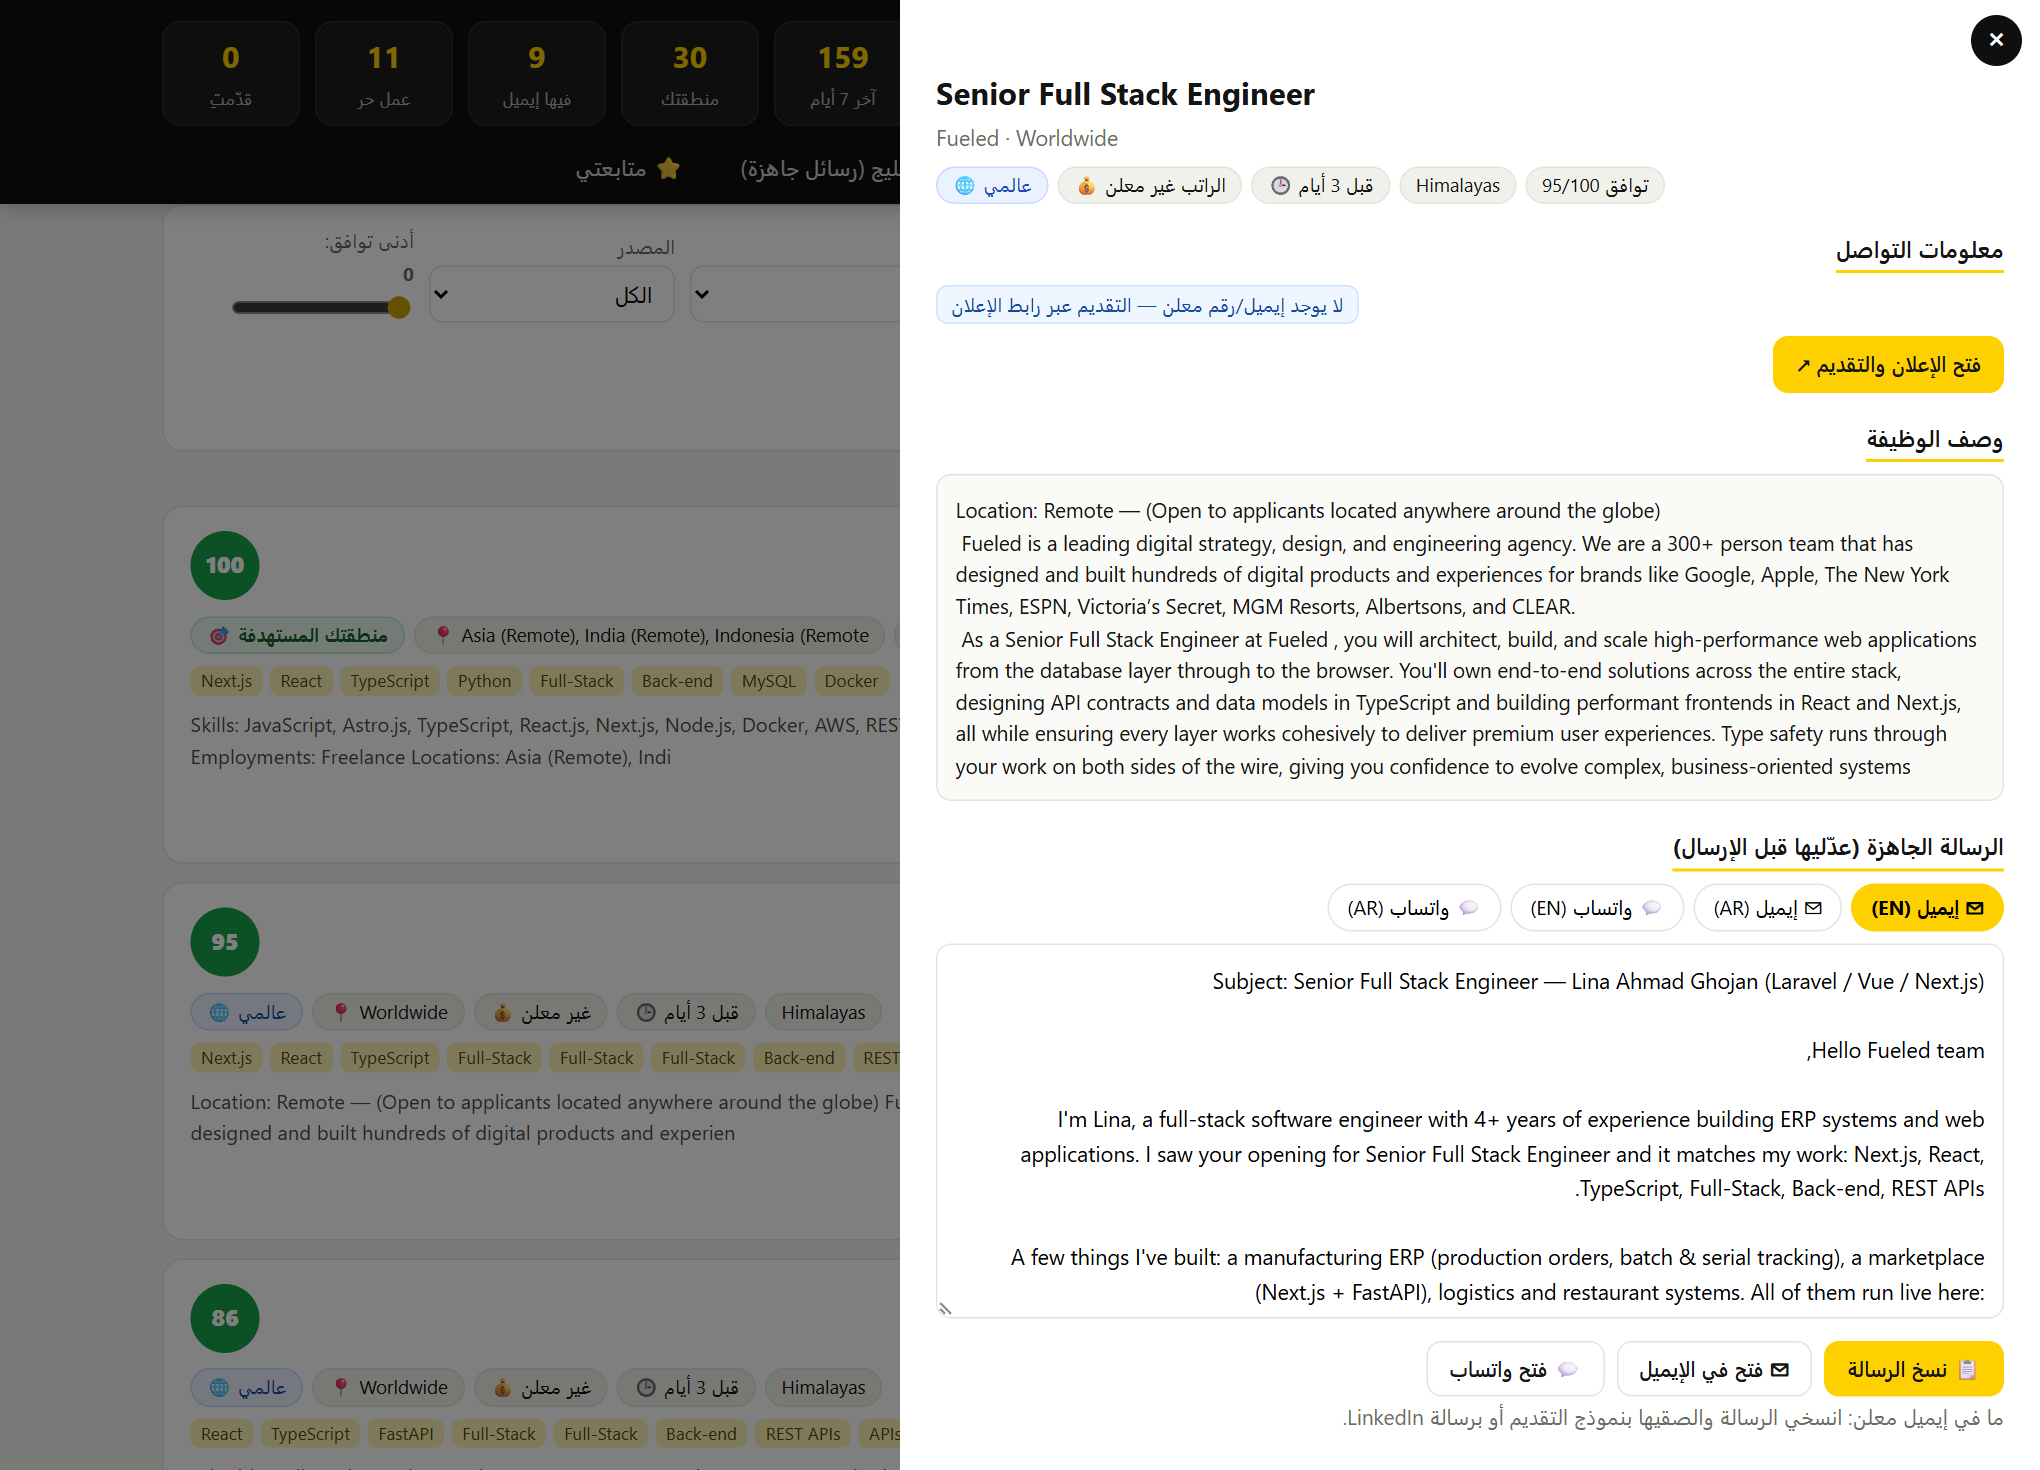
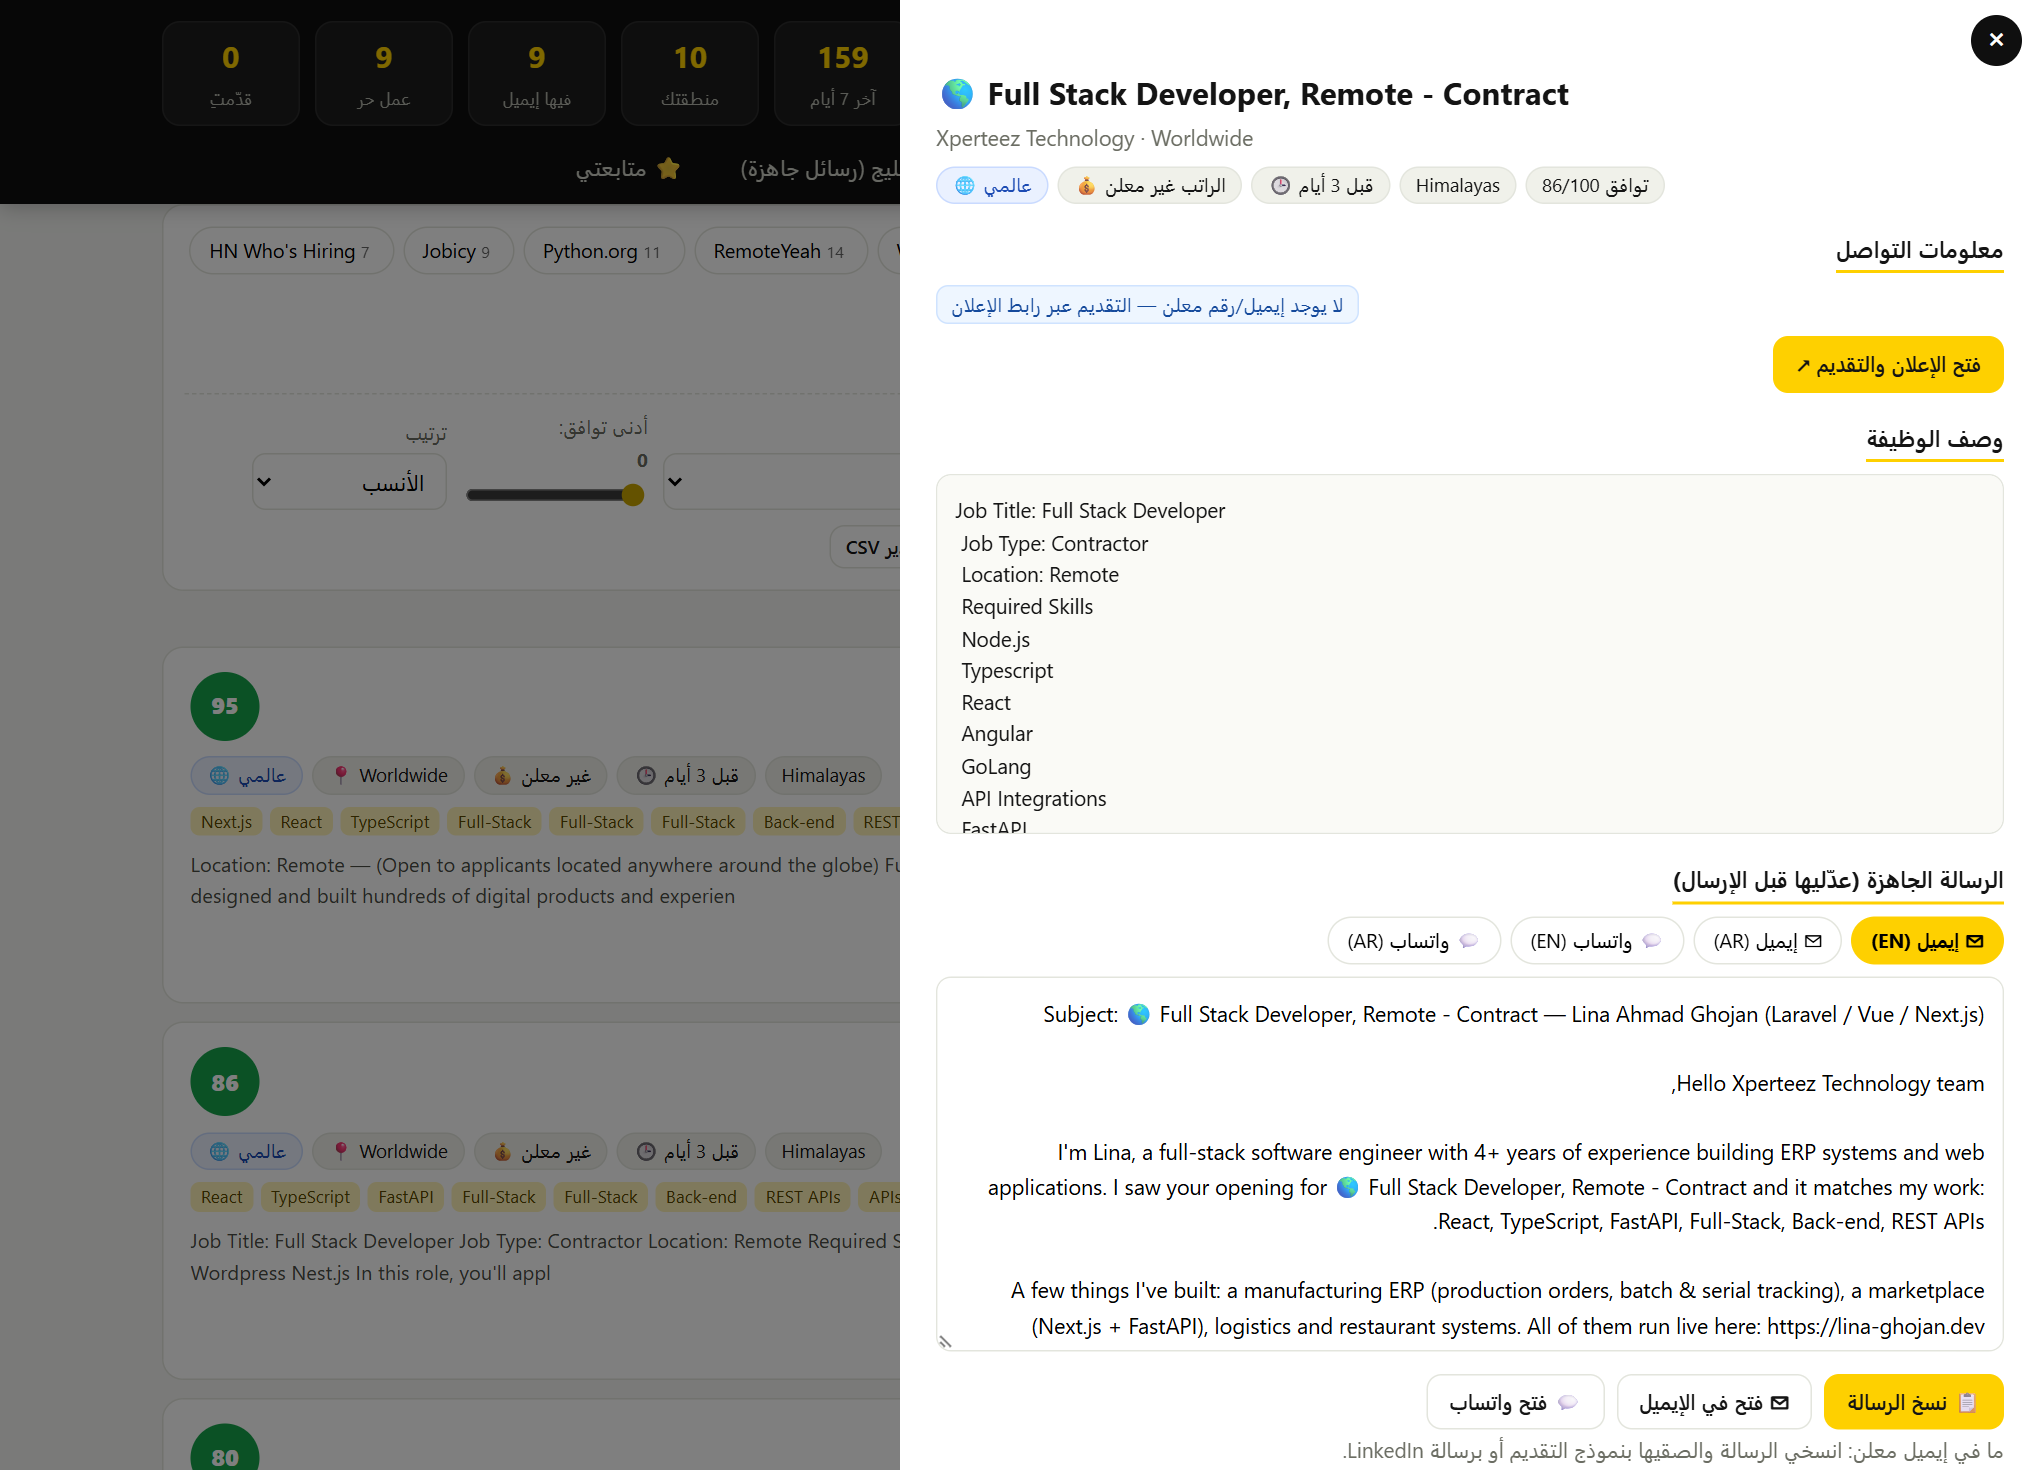
Add site filter bar: pick which sources to see, filter job boards by type, mark link-only sites

diff --git a/site/app.js b/site/app.js
@@ -55,15 +55,17 @@ function card(j) {
 }
 
 /* ───────── filters ───────── */
-const F = { jobs: { q: "", days: 7, region: "", source: "", min: 0, sal: false, con: false, hide: true, nolocal: true, sort: "score", limit: 120 }, free: { q: "", days: 30, region: "", source: "", min: 0, sal: false, con: false, hide: true, nolocal: true, sort: "new", limit: 120 } };
+function loadSrc(k) { try { return new Set(JSON.parse(localStorage.getItem("jobhunt-src-" + k)) || []); } catch { return new Set(); } }
+const saveSrc = (k, set) => { try { localStorage.setItem("jobhunt-src-" + k, JSON.stringify([...set])); } catch { /* ignore */ } };
+const F = { jobs: { q: "", days: 7, region: "", src: loadSrc("jobs"), min: 0, sal: false, con: false, hide: true, nolocal: true, sort: "score", limit: 120 }, free: { q: "", days: 30, region: "", src: loadSrc("free"), min: 0, sal: false, con: false, hide: true, nolocal: true, sort: "new", limit: 120 } };
 function filterUI(box, key, pool) {
   const f = F[key];
-  const sources = [...new Set(pool.map((j) => j.source))].sort();
+  const sources = Object.entries(pool.reduce((m, j) => ((m[j.source] = (m[j.source] || 0) + 1), m), {})).sort((a, b) => b[1] - a[1]);
   box.innerHTML = `
+    <div class="srcbar" id="${key}bar"><b>المواقع:</b><button class="chip ${f.src.size ? "" : "on"}" data-src="*">الكل <small>${pool.length}</small></button>${sources.map(([s, n]) => `<button class="chip ${f.src.has(s) ? "on" : ""}" data-src="${esc(s)}">${esc(s)} <small>${n}</small></button>`).join("")}${linkOnly(key)}</div>
     <label>بحث<input type="search" id="${key}q" placeholder="laravel, dubai, react…" value="${esc(f.q)}"></label>
     <label>تاريخ النشر<div class="chips">${[1, 3, 7, 14, 30].map((d) => `<button class="chip ${f.days === d ? "on" : ""}" data-days="${d}">${d === 1 ? "24 ساعة" : d + " أيام"}</button>`).join("")}</div></label>
     <label>المنطقة<select id="${key}r"><option value="">الكل</option>${Object.entries(REG).filter(([k]) => pool.some((j) => j.region === k)).map(([k, v]) => `<option value="${k}" ${f.region === k ? "selected" : ""}>${v[0]}</option>`).join("")}</select></label>
-    <label>المصدر<select id="${key}s"><option value="">الكل</option>${sources.map((s) => `<option ${f.source === s ? "selected" : ""}>${esc(s)}</option>`).join("")}</select></label>
     <label>أدنى توافق: <b id="${key}mv">${f.min}</b><input type="range" id="${key}m" min="0" max="90" step="5" value="${f.min}"></label>
     <label>ترتيب<select id="${key}o"><option value="score" ${f.sort === "score" ? "selected" : ""}>الأنسب</option><option value="new" ${f.sort === "new" ? "selected" : ""}>الأحدث</option><option value="sal" ${f.sort === "sal" ? "selected" : ""}>فيها راتب أولاً</option></select></label>
     <label class="chk"><input type="checkbox" id="${key}sal" ${f.sal ? "checked" : ""}> فيها راتب</label>
@@ -74,7 +76,14 @@ function filterUI(box, key, pool) {
   const bind = (id, fn) => { const e = $("#" + key + id, box); if (e) e.oninput = e.onchange = fn; };
   bind("q", (e) => { f.q = e.target.value; f.limit = 120; draw(key, pool); });
   bind("r", (e) => { f.region = e.target.value; draw(key, pool); });
-  bind("s", (e) => { f.source = e.target.value; draw(key, pool); });
+  $("#" + key + "bar", box).onclick = (e) => {
+    const b = e.target.closest("[data-src],[data-goboards]"); if (!b) return;
+    if (b.dataset.goboards) { document.querySelector("[data-tab=boards]").click(); return; }
+    const v = b.dataset.src; if (v === "*") f.src.clear(); else if (f.src.has(v)) f.src.delete(v); else f.src.add(v);
+    saveSrc(key, f.src);
+    $("#" + key + "bar", box).querySelectorAll("[data-src]").forEach((x) => x.classList.toggle("on", x.dataset.src === "*" ? !f.src.size : f.src.has(x.dataset.src)));
+    f.limit = 120; draw(key, pool);
+  };
   bind("m", (e) => { f.min = +e.target.value; $("#" + key + "mv", box).textContent = f.min; draw(key, pool); });
   bind("o", (e) => { f.sort = e.target.value; draw(key, pool); });
   bind("sal", (e) => { f.sal = e.target.checked; draw(key, pool); });
@@ -84,9 +93,10 @@ function filterUI(box, key, pool) {
   box.querySelectorAll("[data-days]").forEach((b) => (b.onclick = () => { f.days = +b.dataset.days; box.querySelectorAll("[data-days]").forEach((x) => x.classList.toggle("on", x === b)); draw(key, pool); }));
   const csv = $("#csv", box); if (csv) csv.onclick = () => exportCsv(select(key, pool));
 }
+function linkOnly(key) { return key === "jobs" ? `<span class="lo">LinkedIn · Indeed · Glassdoor · Bayt · GulfTalent · Jooble = روابط بحث فقط <button class="chip" data-goboards="1">افتحيهم ↗</button></span>` : ""; }
 function select(key, pool) {
   const f = F[key], q = f.q.toLowerCase().trim();
-  let r = pool.filter((j) => ageDays(j) <= f.days && j.score >= f.min && (!f.region || j.region === f.region) && (!f.source || j.source === f.source)
+  let r = pool.filter((j) => ageDays(j) <= f.days && j.score >= f.min && (!f.region || j.region === f.region) && (!f.src.size || f.src.has(j.source))
     && (!f.sal || j.salary) && (!f.con || j.contacts.emails.length || j.contacts.whatsapp.length || j.contacts.phones.length)
     && (!f.nolocal || j.region !== "local") && (!f.hide || !["applied", "skip"].includes(store.status[j.id])) && (!q || `${j.title} ${j.company} ${j.location} ${j.tags.join(" ")} ${j.description}`.toLowerCase().includes(q)));
   const by = { score: (a, b) => b.score - a.score || (b.posted > a.posted ? 1 : -1), new: (a, b) => (b.posted > a.posted ? 1 : -1), sal: (a, b) => !!b.salary - !!a.salary || b.score - a.score };
@@ -153,17 +163,20 @@ function boardsTab() {
   const ck = (id, arr, key = "label") => `<select id="${id}">${arr.map((x, i) => `<option value="${i}">${esc(x[key] || x.ar)}</option>`).join("")}</select>`;
   el.innerHTML = `
     <div class="notice">مواقع <b>LinkedIn · Indeed · Glassdoor · Jooble · Bayt · GulfTalent</b> تمنع الجمع الآلي، فبنبني لك رابط البحث الجاهز (ريموت + آخر أسبوع) وبيفتح النتائج مباشرة. فعّلي كمان <b>Job Alerts</b> على كل موقع ليوصلك الجديد على الإيميل يومياً.</div>
-    <div class="filters"><label>الوظيفة${ck("bk", B.keywords)}</label><label>الدولة${ck("bc", B.countries, "ar")}</label></div>
+    <div class="filters"><div class="srcbar" id="bg"><b>نوع الموقع:</b>${B.groups.map(([k, l], i) => `<button class="chip ${i ? "" : "on"}" data-g="${k}">${esc(l)}</button>`).join("")}</div><label>الوظيفة${ck("bk", B.keywords)}</label><label>الدولة${ck("bc", B.countries, "ar")}</label><label>ابحثي عن موقع<input type="search" id="bs" placeholder="linkedin, bayt, upwork…"></label></div>
     <h3>🔎 مواقع التوظيف</h3><div id="bt"></div>
     <h3 style="margin-top:26px">🧑💻 مواقع العمل الحر</h3><div id="bf"></div>
     <h3 style="margin-top:26px">📣 منشورات "مطلوب مبرمج" على السوشيال (الأحدث)</h3><div id="bp"></div>`;
   const paint = () => {
     const k = B.keywords[+$("#bk").value], c = B.countries[+$("#bc").value];
-    $("#bt").innerHTML = `<table class="bt"><tr><th>الموقع</th><th>ملاحظة</th><th>رابط البحث: ${esc(k.label)} — ${esc(c.ar)}</th></tr>${B.boards.map((b) => `<tr><td><b>${esc(b.name)}</b></td><td>${esc(b.note)}</td><td><a href="${esc(b.url(c, k.label))}" target="_blank" rel="noreferrer">افتحي النتائج ↗</a></td></tr>`).join("")}</table>`;
-    $("#bf").innerHTML = `<table class="bt"><tr><th>الموقع</th><th>ملاحظة</th><th>بحث: ${esc(k.label)}</th></tr>${B.freelanceBoards.map((b) => `<tr><td><b>${esc(b.name)}</b></td><td>${esc(b.note)}</td><td><a href="${esc(b.url(k.label))}" target="_blank" rel="noreferrer">افتحي ↗</a></td></tr>`).join("")}</table>`;
+    const g = $("#bg .on").dataset.g, nm = $("#bs").value.toLowerCase().trim(), show = (b) => (g === "all" || b.group === g) && (!nm || b.name.toLowerCase().includes(nm));
+    $("#bt").innerHTML = `<table class="bt"><tr><th>الموقع</th><th>ملاحظة</th><th>رابط البحث: ${esc(k.label)} — ${esc(c.ar)}</th></tr>${B.boards.filter(show).map((b) => `<tr><td><b>${esc(b.name)}</b>${b.linkOnly ? ' <span class="b o" title="الموقع بيمنع الجمع الآلي — بيفتح البحث فقط">رابط بحث فقط</span>' : ""}</td><td>${esc(b.note)}</td><td><a href="${esc(b.url(c, k.label))}" target="_blank" rel="noreferrer">افتحي النتائج ↗</a></td></tr>`).join("")}</table>`;
+    $("#bf").innerHTML = `<table class="bt"><tr><th>الموقع</th><th>ملاحظة</th><th>بحث: ${esc(k.label)}</th></tr>${B.freelanceBoards.filter(show).map((b) => `<tr><td><b>${esc(b.name)}</b></td><td>${esc(b.note)}</td><td><a href="${esc(b.url(k.label))}" target="_blank" rel="noreferrer">افتحي ↗</a></td></tr>`).join("")}</table>`;
     $("#bp").innerHTML = `<table class="bt"><tr><th>ماذا تبحثين</th>${B.postSearches.map((s) => `<th>${esc(s.name)}</th>`).join("")}</tr>${B.postQueries.map((q) => `<tr><td>${esc(q.ar)}</td>${B.postSearches.map((s) => `<td><a href="${esc(s.url(q.q))}" target="_blank" rel="noreferrer">بحث ↗</a></td>`).join("")}</tr>`).join("")}</table>`;
   };
-  $("#bk").onchange = $("#bc").onchange = paint; paint();
+  $("#bk").onchange = $("#bc").onchange = $("#bs").oninput = paint;
+  $("#bg").onclick = (e) => { const x = e.target.closest("[data-g]"); if (!x) return; $("#bg").querySelectorAll("[data-g]").forEach((y) => y.classList.toggle("on", y === x)); paint(); };
+  paint();
 }
 function gulfTab() {
   const el = $("#tab-gulf");

diff --git a/site/boards.js b/site/boards.js
@@ -141,5 +141,16 @@ window.BOARDS = (() => {
     { ar: "الدوحة", en: "Doha" }, { ar: "الكويت", en: "Kuwait City" }, { ar: "المنامة", en: "Manama" }, { ar: "مسقط", en: "Muscat" }, { ar: "عمّان", en: "Amman" },
     { ar: "إسطنبول", en: "Istanbul" }, { ar: "كوالالمبور", en: "Kuala Lumpur" },
   ];
-  return { countries, keywords, boards, freelanceBoards, postSearches, postQueries, segments, cities };
+  // group every board so the dashboard can filter by site type
+  const G = {
+    major: ["LinkedIn", "Indeed", "Glassdoor", "Jooble", "Bayt", "GulfTalent", "Naukrigulf", "Monster Gulf", "Careerjet", "Talent.com", "ZipRecruiter", "SimplyHired", "Dice", "Built In", "Jobgether"],
+    remote: ["Himalayas", "We Work Remotely", "Remotive", "RemoteOK", "Working Nomads", "Remote.co", "FlexJobs", "JustRemote", "Jobspresso", "Dynamite", "Remote Rocketship", "NoDesk", "Arc.dev", "Turing", "Torre", "Work at a Startup", "Otta", "LaraJobs", "VueJobs", "Python.org", "Hacker News", "Wellfound"],
+    gulf: ["Wuzzuf", "Akhtaboot", "Tanqeeb", "Dubizzle", "Emirates Jobs", "Qatar Living", "Q8", "Bahrain Jobs", "Oman Jobs", "Mihnati", "Jordan Jobs", "Glassdoor — الخليج"],
+    tm: ["Kariyer", "Yenibiris", "JobStreet", "Maukerja"],
+  };
+  const groupOf = (name) => Object.entries(G).find(([, l]) => l.some((x) => name.includes(x)))?.[0] || "remote";
+  boards.forEach((b) => { b.group = groupOf(b.name); b.linkOnly = G.major.some((x) => b.name.includes(x)); });
+  freelanceBoards.forEach((b) => { b.group = "freelance"; });
+  const groups = [["all", "الكل"], ["major", "المواقع الكبيرة (LinkedIn, Indeed, Bayt…)"], ["remote", "ريموت فقط"], ["gulf", "الخليج / الأردن / مصر"], ["tm", "تركيا وماليزيا"], ["freelance", "عمل حر"]];
+  return { countries, keywords, boards, freelanceBoards, postSearches, postQueries, segments, cities, groups };
 })();

diff --git a/site/style.css b/site/style.css
@@ -68,3 +68,11 @@ table.bt{width:100%;border-collapse:collapse;background:#fff;border:1px solid va
 .toast{position:fixed;bottom:22px;inset-inline-start:50%;transform:translateX(-50%);background:#0f0f0f;color:#fff;padding:10px 20px;border-radius:999px;z-index:99;font-size:.9rem}
 .notice{background:#fff8dc;border:1px solid #f3dc92;border-radius:12px;padding:10px 14px;font-size:.86rem;margin-bottom:12px}
 @media(max-width:640px){.score{width:38px;height:38px;font-size:.8rem}.filters input[type=search]{min-width:100%}}
+
+/* site filter bar */
+.srcbar{flex:1 1 100%;display:flex;gap:6px;flex-wrap:wrap;align-items:center;padding-bottom:8px;border-bottom:1px dashed var(--line);margin-bottom:2px}
+.srcbar>b{font-size:.8rem;color:var(--muted);margin-inline-end:4px}
+.srcbar .chip small{opacity:.6;margin-inline-start:3px}
+.srcbar .lo{flex:1 1 100%;font-size:.76rem;color:var(--muted);margin-top:2px}
+.srcbar .lo .chip{padding:2px 10px;font-size:.76rem;margin-inline-start:6px}
+@media(max-width:640px){.srcbar{flex-wrap:nowrap;overflow-x:auto}.srcbar .lo{flex:0 0 auto;white-space:nowrap}}
